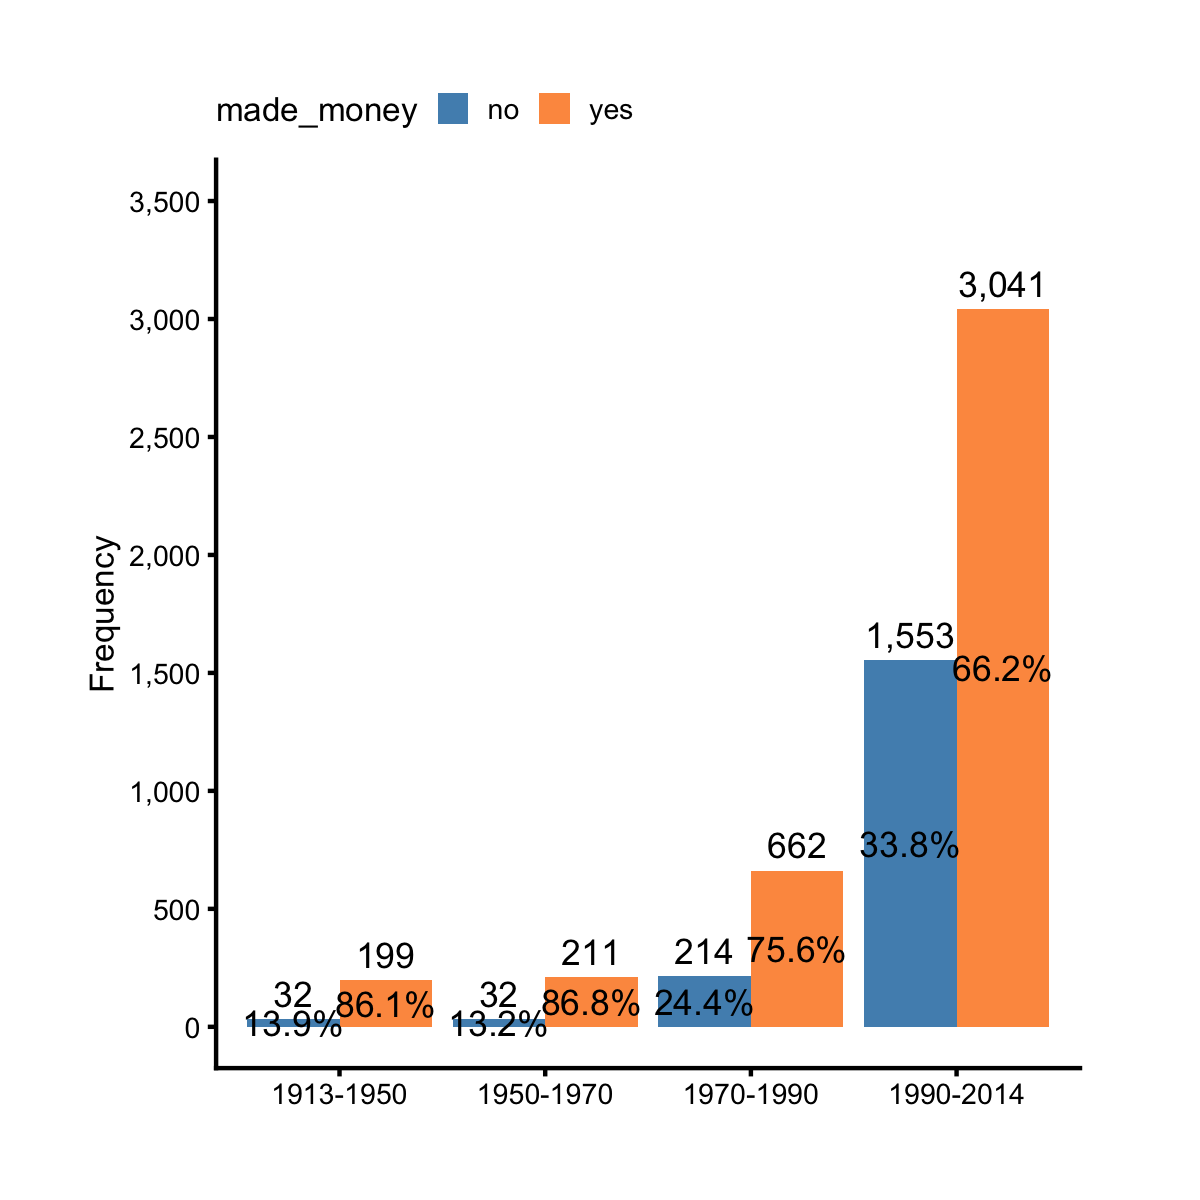
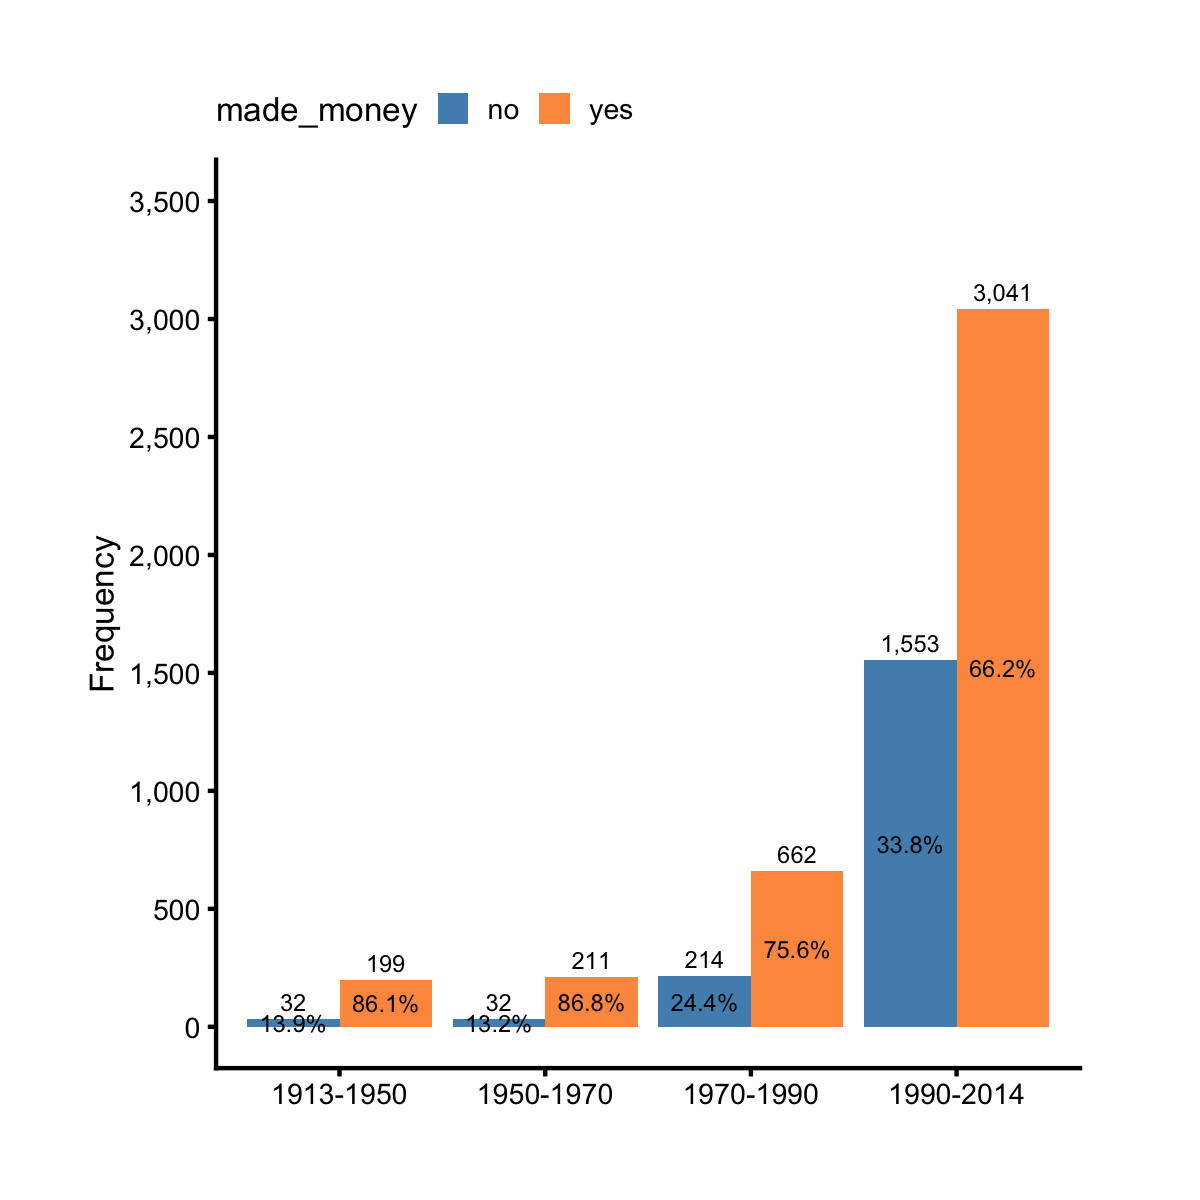
no message

diff --git a/manuscript/04-02-dodged-n-stacked-barchart.md b/manuscript/04-02-dodged-n-stacked-barchart.md
@@ -7,7 +7,8 @@ categorical and one continous variables. For example, take `year_cat` and `made_
 ```r
 library(ezplot)
 plt = mk_barplot_freq(films)
-plt(xvar = "year_cat", fillby = "made_money", legend_pos = 'top', font_size = 8)
+plt(xvar = "year_cat", fillby = "made_money", legend_pos = 'top', 
+    label_size = 2, font_size = 8)
 ```
 
 ![](images/barplot_dodged-1.png)
